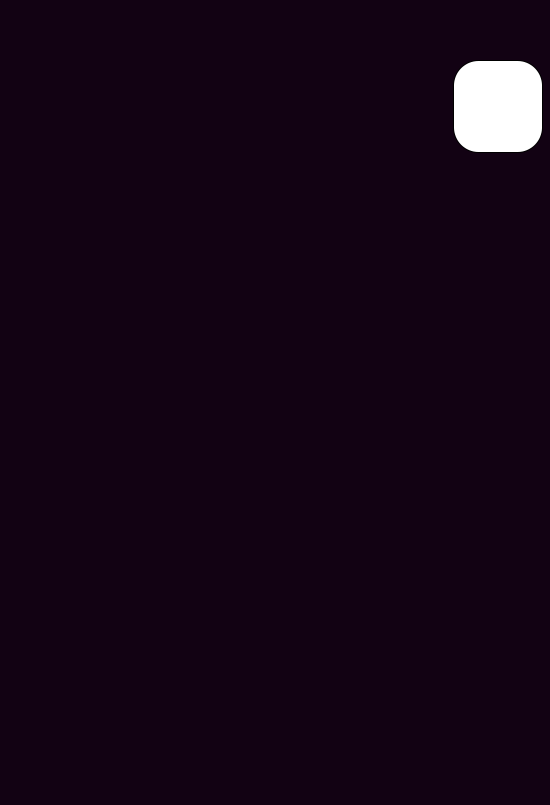
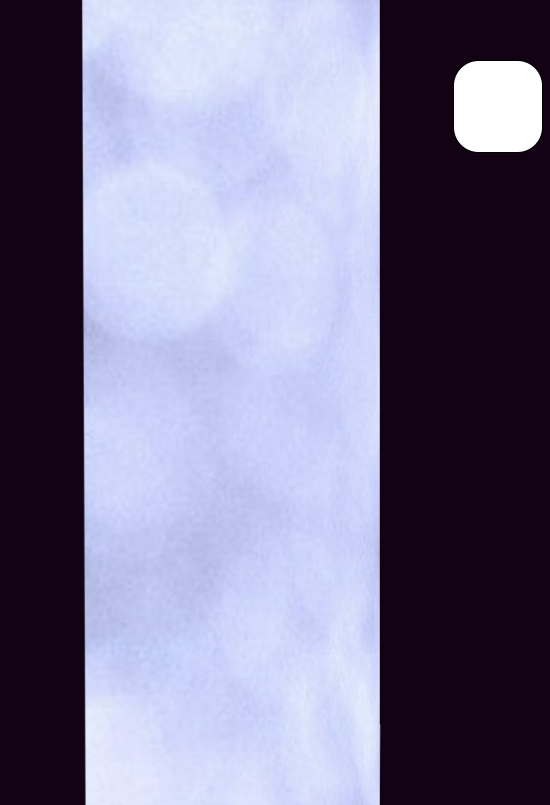
фон более лучше

diff --git a/board.py b/board.py
@@ -47,11 +47,7 @@ class Board:
         self.figuri = []
 
     def render(self, screen):
-        for i, h in enumerate(self.board):
-            for k, w in enumerate(h):
-                pygame.draw.rect(screen, (255, 255, 255),
-                                 (self.left + i * self.cell_size, self.top + k * self.cell_size,
-                                  self.cell_size, self.cell_size), 1)
+        pass
 
     def next_picture(self):
         self.image = load_image(f"{self.next_figura}.png")
@@ -417,6 +413,8 @@ class Border(pygame.sprite.Sprite):
         if x1 == x2:  # вертикальная стенка
             self.add(vertical_borders)
             self.image = pygame.Surface([1, y2 - y1])
+            self.image.fill((255, 255, 255))
+            self.image.set_alpha(1)
             self.rect = pygame.Rect(x1, y1, 1, y2 - y1)
         else:  # горизонтальная стенка
             self.add(horizontal_borders)

diff --git a/main.py b/main.py
@@ -253,9 +253,8 @@ if __name__ == '__main__':
             if event.type == pygame.MOUSEBUTTONDOWN:
                 if flag:
                     flag = 3
-
-        screen.blit(fon, (0, 0))
         screen.blit(board.scale, board.rect)
+        screen.blit(fon, (0, 0))
         keys = pygame.key.get_pressed()
         if keys[pygame.K_DOWN]:
             speed = main_speed // 4
